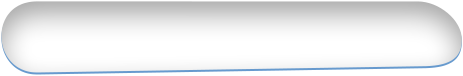
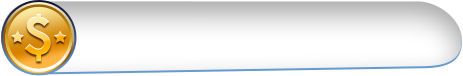
Фиксы верстки Cash Panel и Exp Panel

Changed region(s): [[0.0, 0.0, 0.1814, 1.0]]

diff --git a/lobbyTopPanelConstructor.js b/lobbyTopPanelConstructor.js
@@ -41,9 +41,9 @@ function ConstructTopPanel()
 	uiGameSlotsClubButtonLeft = uiGameTopPanelWidth * uiGameSlotsClubButtonLeftScale;
 	uiGameSlotsClubButtonTop = uiGameTopPanelHeight * uiGameSlotsClubButtonTopScale;
 
-	const uiGameSlotsMoneyPanelWidthScale = 0.24;
-	const uiGameSlotsMoneyPanelHeightScale = 0.58;
-	const uiGameSlotsMoneyPanelLeftScale = 0.11;
+	const uiGameSlotsMoneyPanelWidthScale = 0.23;
+	const uiGameSlotsMoneyPanelHeightScale = 0.52;
+	const uiGameSlotsMoneyPanelLeftScale = 0.12;
 	const uiGameSlotsMoneyPanelTopScale = 0.2;
 	uiGameSlotsMoneyPanelWidth = uiGameTopPanelWidth * uiGameSlotsMoneyPanelWidthScale;
 	uiGameSlotsMoneyPanelHeight = uiGameTopPanelHeight * uiGameSlotsMoneyPanelHeightScale;
@@ -59,9 +59,9 @@ function ConstructTopPanel()
 	uiGameBuyButtonLeft = uiGameTopPanelWidth * uiGameBuyButtonLeftScale;
 	uiGameBuyButtonTop = uiGameTopPanelHeight * uiGameBuyButtonTopScale;
 
-	const uiGameExperiencePanelWidthScale = 0.24;
-	const uiGameExperiencePanelHeightScale = 0.58;
-	const uiGameExperiencePanelLeftScale = 0.65;
+	const uiGameExperiencePanelWidthScale = 0.22;
+	const uiGameExperiencePanelHeightScale = 0.52;
+	const uiGameExperiencePanelLeftScale = 0.66;
 	const uiGameExperiencePanelTopScale = 0.2;
 	uiGameExperiencePanelWidth = uiGameTopPanelWidth * uiGameExperiencePanelWidthScale;
 	uiGameExperiencePanelHeight = uiGameTopPanelHeight * uiGameExperiencePanelHeightScale;
